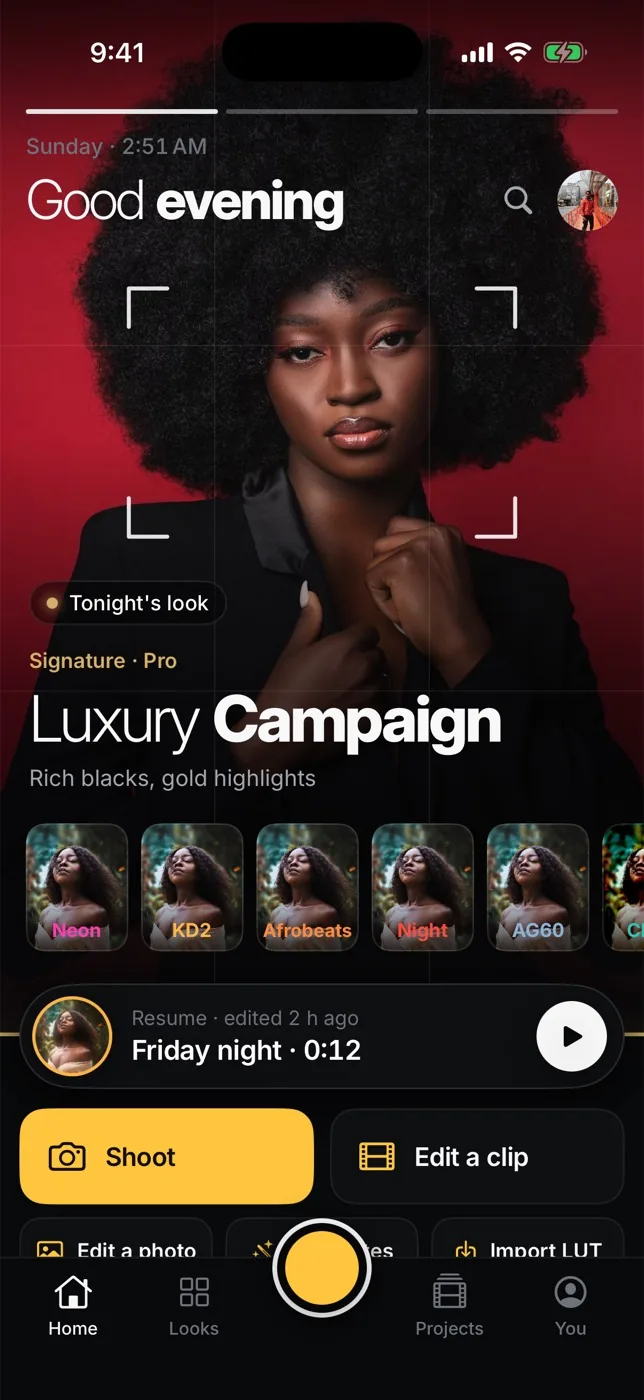
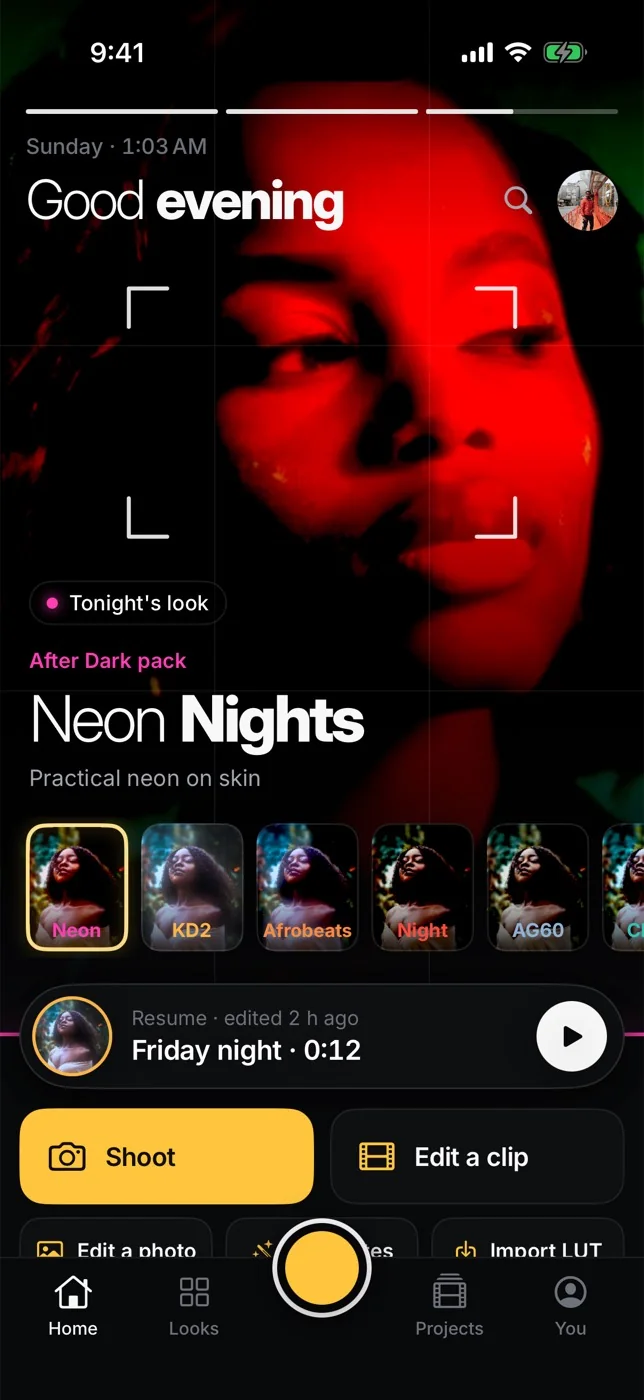
Website: put the Neon Nights Home screenshot back
Edem wants the centre phone to show the same woman as the editor phone
beside it, as it did before. The run 38 frame showed the hero's portrait
again. A fresh capture holding on Neon Nights can replace this later.

Claude-Session: https://claude.ai/code/session_01TySN1XiZdFQzqF7W8Tj3iQ

diff --git a/website/index.html b/website/index.html
@@ -136,7 +136,7 @@
       </div>
       <div class="stage" data-reveal aria-label="LumaLook on iPhone">
         <figure class="phone side" style="margin:70px 0 0"><img src="assets/img/screens/camera.webp?v=c3" width="644" height="1400" loading="lazy" alt="The LumaLook camera with the KD2 Golden Hour look live in the viewfinder, a lens ruler set to 24 millimetres and exposure, white balance and focus readouts."></figure>
-        <figure class="phone mid develop" style="margin:0"><img src="assets/img/screens/home.webp?v=c3" width="644" height="1400" alt="LumaLook Home: tonight's look, Luxury Campaign, a Signature Pro look, graded over a portrait, with a strip of looks to try, a Resume card and Shoot and Edit a clip buttons." loading="lazy"></figure>
+        <figure class="phone mid develop" style="margin:0"><img src="assets/img/screens/home.webp?v=c3" width="644" height="1400" alt="LumaLook Home: tonight's look, Neon Nights from the After Dark pack, graded over a portrait, with a strip of looks to try, a Resume card and Shoot and Edit a clip buttons." loading="lazy"></figure>
         <figure class="phone side" style="margin:70px 0 0"><img src="assets/img/screens/editor.webp?v=c3" width="644" height="1400" loading="lazy" alt="The LumaLook video editor: a clip graded with Neon Nights, a karaoke caption reading then the lights came on, and a timeline with a look on each clip."></figure>
       </div>
     </div>
